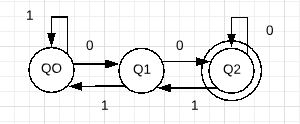
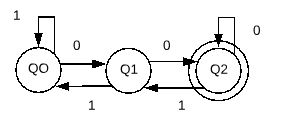
practica-2 fili terminada

diff --git a/src/practica-2/fili/grafico.py b/src/practica-2/fili/grafico.py
@@ -63,7 +63,7 @@ class Ventana (QtGui.QMainWindow):
         self.label_titulo.setFont(QtGui.QFont('SansSerif', 14))
         self.label_titulo.setGeometry( 120, 65, 300, 50 )
 
-        self.label_imagen.setGeometry( 50, 90, 500, 190 )
+        self.label_imagen.setGeometry( 120, 90, 500, 190 )
         self.label_imagen.setPixmap(QtGui.QPixmap("captura.jpg"))
 
         self.label_alfabeto.setGeometry( 50, 250, 150, 50 )
